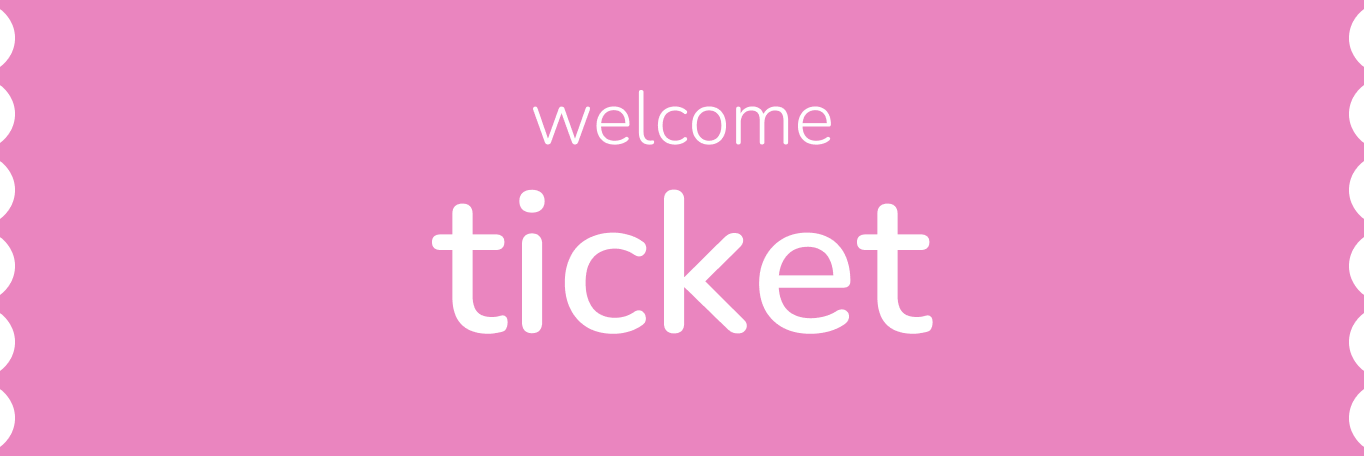
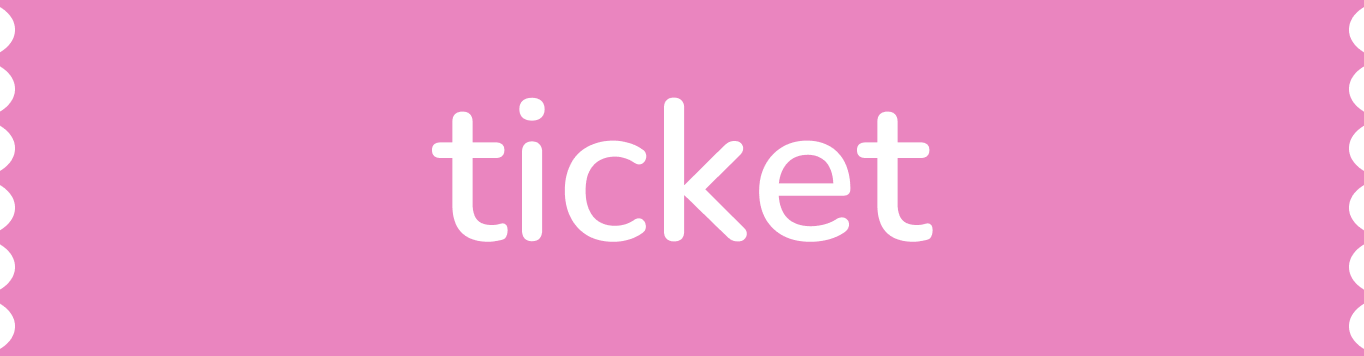
completed styling

Changed region(s): [[0.3079, 0.2163, 0.7082, 0.7416]]

diff --git a/src/styles/home.css b/src/styles/home.css
@@ -11,16 +11,11 @@
   flex-direction: column;
   align-items: center;
 }
-
 #loginButton {
-  font-family: 'Nunito', sans-serif;
-  color: #fffdfa;
-  font-size: 20px;
-  background-color: #e6b6d1;
+  background-color: rgba(255, 0, 0, 0);
 }
-
 #loginButton:hover {
-  background-color: #e69ac5;
+  opacity: 50%;
 }
 
 h1 {

diff --git a/src/components/Home.jsx b/src/components/Home.jsx
@@ -11,8 +11,7 @@ const Home = () => {
           Yara
         </p>
         <button id="loginButton" onClick={() => navigate('/login')}>
-          <img src="./src/images/ticket.png" alt="" width="50px" />
-
+          <img src="./src/images/ticket.png" alt="" width="300px" />
         </button>
       </div>
     </>
